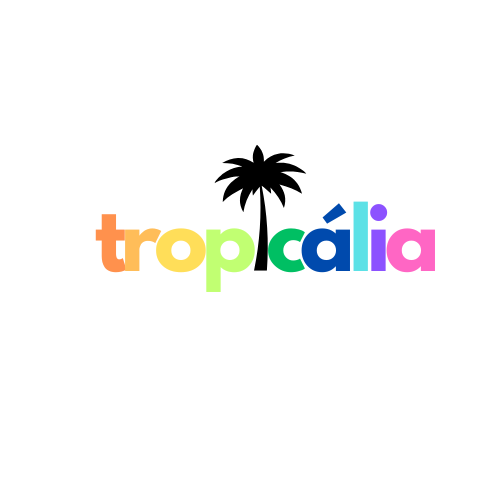
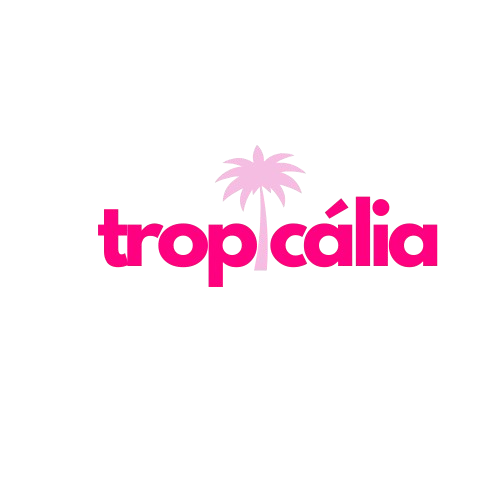
Add files via upload

Changed region(s): [[0.18, 0.27, 0.9, 0.6]]

diff --git a/index.html b/index.html
@@ -16,15 +16,17 @@
     <header class=" p-5">
 
         <nav class="container d-flex justify-content-between align-items-center">
-            <img src="img/logo.png" alt="Logotipo da Tropicália" class="nav-img " loading="lazy">
+            <img src="img/name.png" alt="tropicalia." class="nav-img " loading="lazy">
             <ul class="nav mt-5">
                 <li class="nav-item"><a class="nav-link" href="#inicio">Início</a></li>
                 <li class="nav-item"><a class="nav-link" href="#galeria">Galeria</a></li>
                 <li class="nav-item"><a class="nav-link" href="#contato">Contato</a></li>
             
-            </ul> <div>id="acessibilidade" class="menu-acessibilidade" </div>
-             <button id="aumentar fonte" class="btn btn-primary"> <button></button>
-             <button id="diminuir fonte" class="btn btn-primary"> <button></button>
+            </ul> 
+            <div> 
+               
+             <button id="aumentar fonte" class="btn btn-primary"> A+<button></button>
+             <button id="diminuir fonte" class="btn btn-primary"> A-<button></button>
         </nav>
        
     </header>
@@ -36,13 +38,13 @@
             <div class="inicio-fundo d-flex justify-content-between align-items-center">
                 <div class="esquerda-conteudo">
                     <h1 class="display-4 text-white fst-italic fw-bold">Boas-vindas a</h1>
-                    <img src="img/logo-2.png" alt="Logotipo secundário da Tropicália" class="mb-3" width="563"
+                    <img src="img/coqueiro.png" alt="Logotipo secundário da Tropicália" class="mb-3" width="563"
                         height="278" loading="lazy">
                     <a href="#tropicalia"
                         class="btn btn-primary btn-lg botao-inicio fw-semibold">Quero
                         conhecer!</a>
                 </div>
-<img src="coqueiro.png" alt="O nome Tropicália em letras coloridas (laranja escuro,laranja claro, amarelo, verde claro,preto, verde escuro, azul escuro, azul claro, roxo e rosa) com um coqueiro na imagem">
+<img src="coqueiro.png" alt="O nome Tropicália em letra rosa escuro e com um coqueiro rosa claro">
             </div>
         </section>
 
@@ -61,11 +63,11 @@
 
                 <div class="row justify-content-md-center">
                     <div class="col-md-4">
-                        <img src="img/lossy-page1-640px-Jorge_Ben_e_o_Trio_Mocotó_no_Teatro_da_Lagoa,_1971.tif.jpg"
+                        <img src="img/homem.png"
                             class="img-fluid rounded-5" loading="lazy">
                     </div>
                     <div class="col-md-4">
-                        <img src="img/lossy-page1-640px-Os_Mutantes_2.tif.jpg" class="img-fluid rounded-5"
+                        <img src="img/grupo.png" class="img-fluid rounded-5"
                             loading="lazy">
                     </div>
                 </div>
@@ -106,7 +108,7 @@
         <i class="bi bi-whatsapp"></i>
         <i class="bi bi-instagram"></i>
         <i class="bi bi-tiktok"></i>
-        <p class="mt-3">Desenvolvido por Start by Alura. Projeto fictício sem fins comerciais.</p>
+        <p class="mt-3">Desenvolvido por Giovana Greguoldo, aluna do 3B 2025.</p>
     </footer>
     <script src="script.js"></script>
 

diff --git a/styles.css b/styles.css
@@ -2,16 +2,16 @@
 @import url('https://fonts.googleapis.com/css2?family=Lemon&display=swap');
 
 :root {
-    --laranja-claro: #08291b;
+    --laranja-claro: #ff0080;
 }
 
 body {
     font-size: 1rem;
-    font-family: 'Montserrat';
+    font-family: 'Libre Baskerville';
 }
 
 header {
-    background-color: #bdf5de;
+    background-color: #f5bde2;
 }
 
 
@@ -21,7 +21,7 @@ section {
 
 
 .nav-link {
-    color: #0f3624;
+    color: #ff0080;
     font-weight: 600;
 }
 
@@ -102,7 +102,7 @@ h2 {
 }
 
 #galeria {
-    background-color: #aad1bc;
+    background-color: #ecafe2;
 
 }
 
@@ -120,23 +120,23 @@ h2 {
 }
 
 .formulario {
-    background-color: #ffffff;
+    background-color: #f7bedf;
     padding: 2rem;
     /* Espaçamento interno dentro do formulário */
     border-radius: 10px;
     /* Borda arredondada para o formulário */
-    box-shadow: 0 0 10px rgba(0, 0, 0, 0.1);
+    box-shadow: 0 0 10px rgba(238, 85, 156, 0.1);
     /* Sombra suave para destacar o formulário */
     font-weight: bold;
 }
 
 .formulario button {
-    background-color: #CB6D43;
+    background-color: #ff0080;
     border: none;
     font-weight: bold;
 }
 
 /* chama classe do bootstrap para modificar a cor */
 .form-control {
-    background-color: #F1EDEF;
-}
+    background-color: #fc9ecd;
+} 
